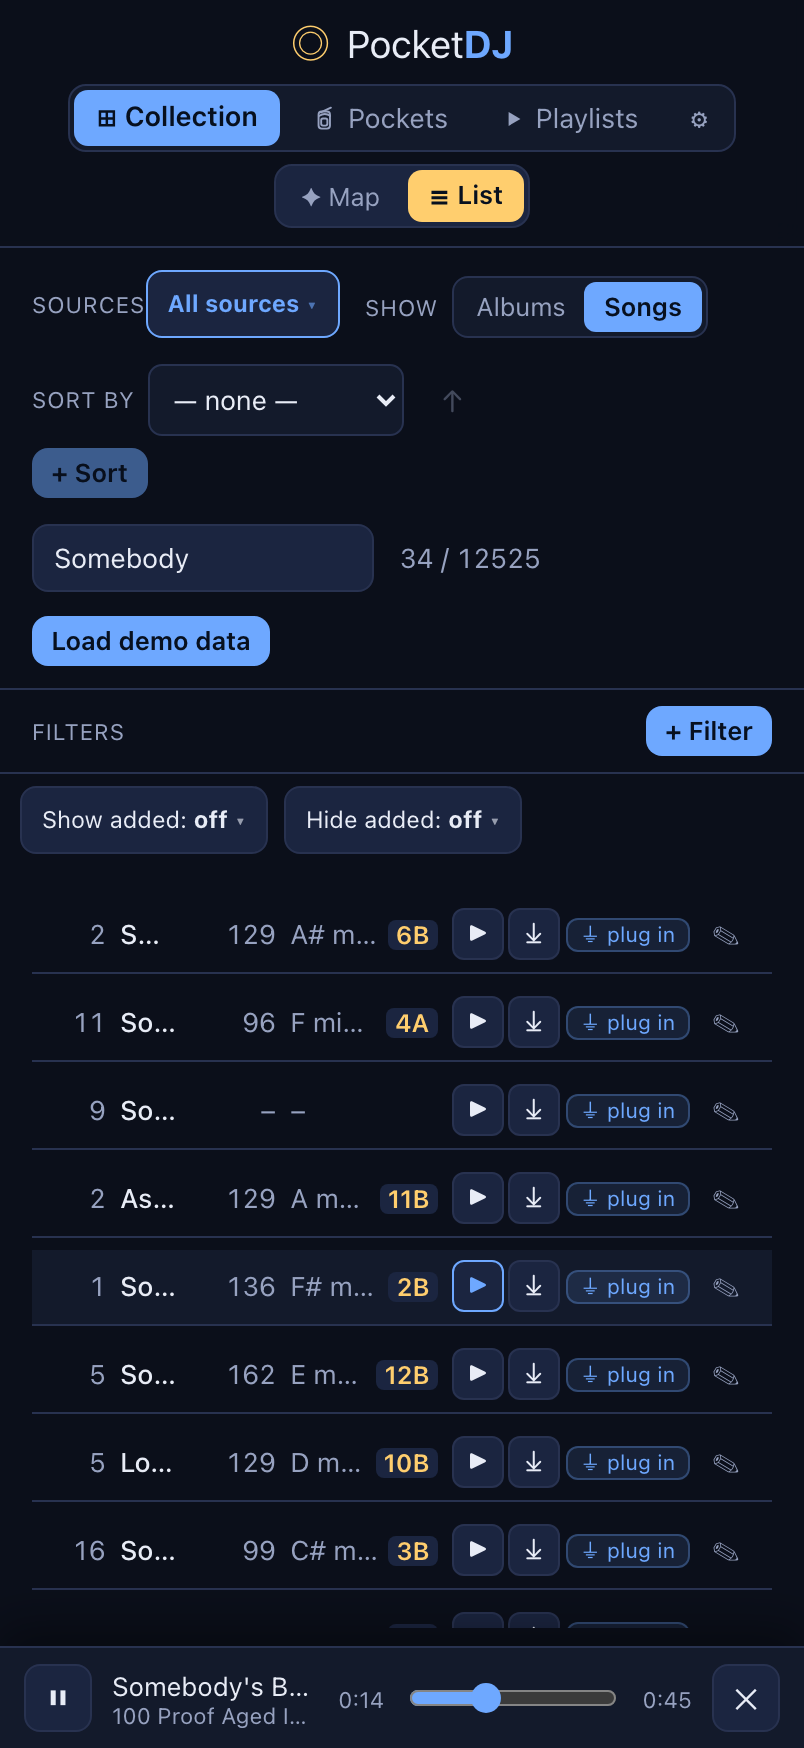
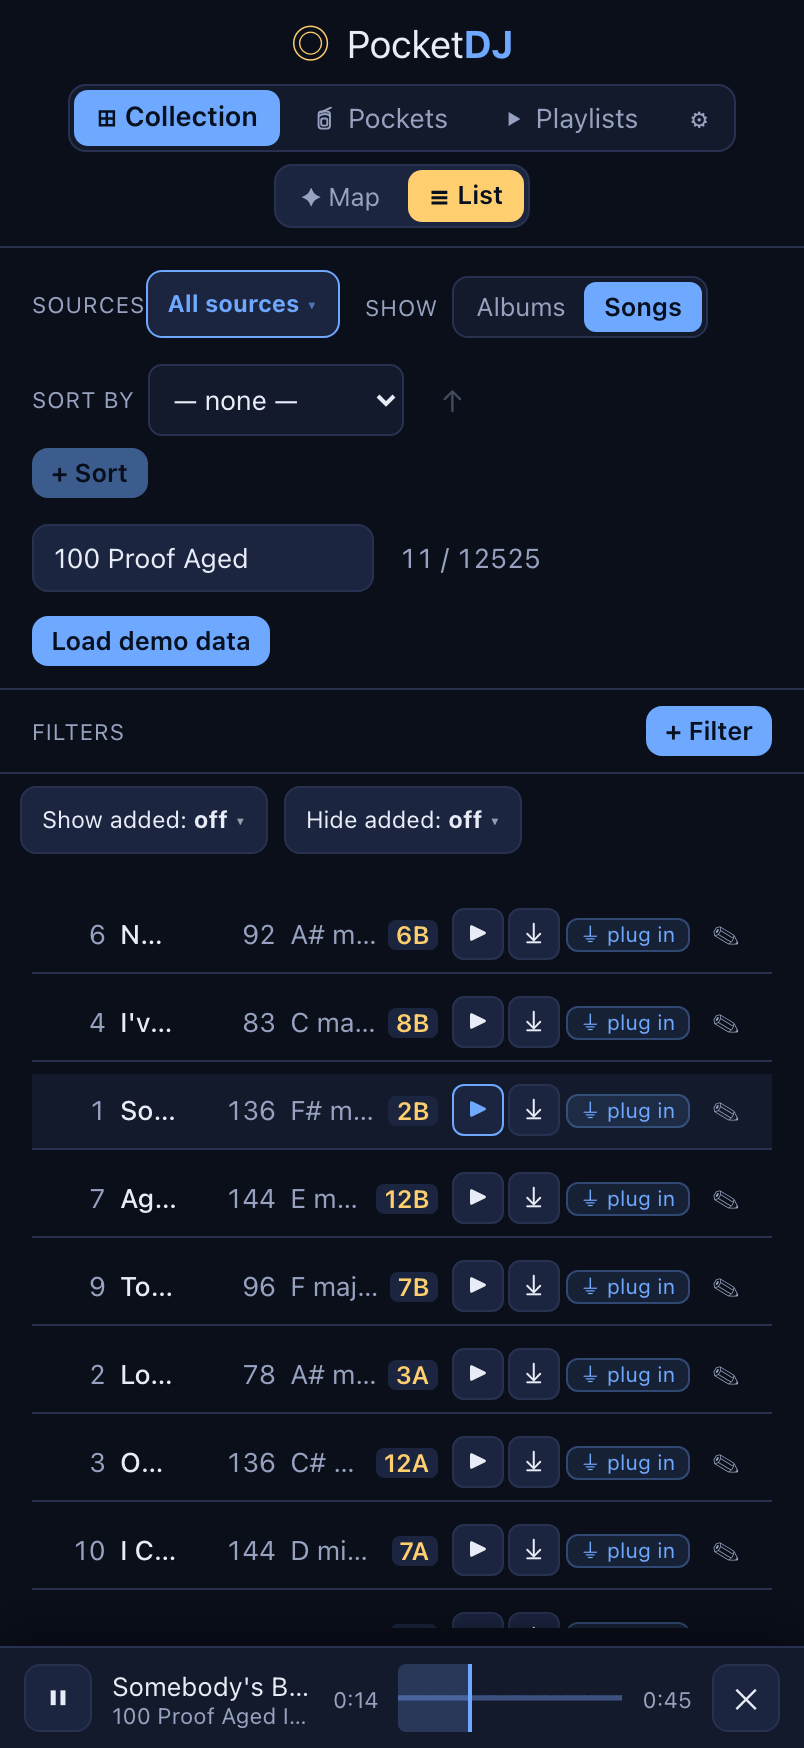
Audio analysis: background BPM/key/waveform for every rip
Generate per-song audio metadata for both API rips and rip-skill output:
- analyze-one.py: single-file BPM/key/Camelot via librosa (KS profiles)
- audio-analyze.mjs: shared analyzer (Docker librosa + ffmpeg waveform PNG)
- analyze-rip.mjs: batch bridge for rip-skill _ripped folders
- rip-server: background analysis queue + POST /analysis, resume on restart
- useRipsStore: fill-gaps catalog merge (bpm/key/camelot) + waveform on play
- MiniPlayer: visual waveform scrub when a waveform is available

BPM/key/Camelot fold into the default index; the waveform PNG is uploaded
to S3 (rips/waveforms/<songId>.png) and fetched only on interaction.

diff --git a/src/store/useRipsStore.ts b/src/store/useRipsStore.ts
@@ -6,6 +6,9 @@
 // when the rip server is offline — the server is only needed to CREATE a rip.
 import { create } from 'zustand';
 import { zip } from 'fflate';
+import { getItem, putItem } from '../storage/repo';
+import { useDataStore } from './useDataStore';
+import { isSong } from '../types/model';
 
 const PUBLIC_BASE = 'https://pocketdj-rips-011183829623.s3.us-west-2.amazonaws.com';
 const MANIFEST_URL = `${PUBLIC_BASE}/rips/manifest.json`;
@@ -15,6 +18,9 @@ export interface ManifestEntry {
   key: string; ext: string; bytes: number;
   source: 'analog' | 'digital'; albumId?: string;
   startMs?: number | null; durationMs?: number | null; rippedAt: number;
+  // background audio analysis (filled after the rip):
+  bpm?: number | null; musicalKey?: string | null; camelot?: string | null;
+  waveform?: string | null; analyzed?: boolean;
 }
 export type RipPhase = 'queued' | 'searching' | 'ripping' | 'uploading' | 'ready' | 'error';
 export interface JobView {
@@ -22,7 +28,7 @@ export interface JobView {
   message?: string | null; url?: string | null; error?: string | null;
   progress?: { elapsedMs?: number; totalMs?: number; pct?: number; indeterminate?: boolean };
 }
-export interface NowPlaying { songId: string; title: string; artist: string; url: string; startMs?: number | null; }
+export interface NowPlaying { songId: string; title: string; artist: string; url: string; startMs?: number | null; waveform?: string | null; }
 export interface QueueItem { id: string; title: string; artist: string; }
 export interface BulkProgress { done: number; total: number; label: string; }
 
@@ -107,7 +113,11 @@ export const useRipsStore = create<RipState>((set, get) => {
     refreshManifest: async () => {
       try {
         const r = await fetch(`${MANIFEST_URL}?t=${Date.now()}`, { cache: 'no-store' });
-        if (r.ok) set({ manifest: await r.json() });
+        if (r.ok) {
+          const manifest = await r.json();
+          set({ manifest });
+          void applyAnalysisToCatalog(manifest); // roll bpm/key/camelot into the catalog
+        }
       } catch { /* offline — keep whatever we have */ }
     },
     urlFor: (songId) => {
@@ -148,7 +158,7 @@ export const useRipsStore = create<RipState>((set, get) => {
       const e = get().manifest[song.id];
       const startMs = opts && 'startMs' in opts ? opts.startMs ?? null : e?.startMs ?? null;
       // single play clears any setlist queue (no next/prev)
-      set({ queue: null, queueIndex: -1, nowPlaying: { songId: song.id, title: song.title, artist: song.artist, url, startMs } });
+      set({ queue: null, queueIndex: -1, nowPlaying: { songId: song.id, title: song.title, artist: song.artist, url, startMs, waveform: e?.waveform ? `${PUBLIC_BASE}/${e.waveform}` : null } });
     },
     download: async (song) => {
       const url = await get().ensureUrl(song.id);
@@ -173,7 +183,7 @@ export const useRipsStore = create<RipState>((set, get) => {
       set({ queueIndex: i });
       const url = await get().ensureUrl(t.id);
       const e = get().manifest[t.id];
-      set({ nowPlaying: { songId: t.id, title: t.title, artist: t.artist, url, startMs: e?.startMs ?? null } });
+      set({ nowPlaying: { songId: t.id, title: t.title, artist: t.artist, url, startMs: e?.startMs ?? null, waveform: e?.waveform ? `${PUBLIC_BASE}/${e.waveform}` : null } });
     },
     next: () => { const { queue, queueIndex } = get(); if (queue && queueIndex + 1 < queue.length) void get().playAt(queueIndex + 1); },
     prev: () => { const { queue, queueIndex } = get(); if (queue && queueIndex > 0) void get().playAt(queueIndex - 1); },
@@ -217,4 +227,32 @@ export const useRipsStore = create<RipState>((set, get) => {
 function dedupe(tracks: QueueItem[]): QueueItem[] {
   const seen = new Set<string>();
   return tracks.filter((t) => t.id && !seen.has(t.id) && seen.add(t.id));
+}
+
+/**
+ * Roll the rip analysis (bpm/key/camelot) into the catalog: patch IndexedDB song
+ * items so the data shows up in the default index — filterable, sortable, on the
+ * star map, in song detail. Only fills from entries that carry analysis; never
+ * overwrites an existing value with null. Reloads the browser once if anything
+ * changed. Runs in the background after the manifest loads.
+ */
+async function applyAnalysisToCatalog(manifest: Record<string, ManifestEntry>): Promise<void> {
+  let patched = 0;
+  for (const [songId, e] of Object.entries(manifest)) {
+    if (e.bpm == null && !e.musicalKey && !e.camelot) continue;
+    try {
+      const it = await getItem(songId);
+      if (!it || !isSong(it)) continue;
+      // FILL gaps only — never clobber existing catalog values (analog songs already
+      // carry accurate audio-stage bpm/key; digital songs are null and get filled).
+      const bpm = it.bpm ?? e.bpm ?? null;
+      const key = it.key ?? e.musicalKey ?? null;
+      const camelot = it.camelot ?? e.camelot ?? null;
+      if (it.bpm !== bpm || it.key !== key || it.camelot !== camelot) {
+        await putItem({ ...it, bpm, key, camelot });
+        patched++;
+      }
+    } catch { /* ignore one bad item */ }
+  }
+  if (patched) void useDataStore.getState().reload();
 }

diff --git a/src/components/player/MiniPlayer.tsx b/src/components/player/MiniPlayer.tsx
@@ -2,6 +2,7 @@
 // tracks it auto-seeks to the track's startMs within the whole-album file (the user
 // can still scrub freely). Mounted once in AppShell.
 import { useEffect, useRef, useState } from 'react';
+import type { MouseEvent } from 'react';
 import { useRipsStore } from '../../store/useRipsStore';
 
 const clock = (s: number) => (isFinite(s) ? `${Math.floor(s / 60)}:${String(Math.floor(s % 60)).padStart(2, '0')}` : '0:00');
@@ -38,6 +39,11 @@ export function MiniPlayer() {
   const a = audioRef.current;
   const toggle = () => { if (!a) return; if (a.paused) void a.play(); else a.pause(); };
   const seek = (v: number) => { if (a) a.currentTime = v; };
+  const pct = dur ? Math.min(100, (t / dur) * 100) : 0;
+  const seekFromClick = (e: MouseEvent<HTMLDivElement>) => {
+    const r = e.currentTarget.getBoundingClientRect();
+    seek(((e.clientX - r.left) / r.width) * (dur || 0));
+  };
 
   return (
     <div className="pdj-player" data-testid="mini-player">
@@ -63,12 +69,20 @@ export function MiniPlayer() {
         <div className="pdj-player__artist">{now.artist}</div>
       </div>
       <span className="pdj-player__time">{clock(t)}</span>
-      <input
-        className="pdj-player__seek"
-        type="range" min={0} max={dur || 0} step={0.5} value={t}
-        data-testid="player-seek"
-        onChange={(e) => seek(Number(e.target.value))}
-      />
+      {now.waveform ? (
+        <div className="pdj-player__wave" data-testid="player-wave" onClick={seekFromClick} title="Scrub">
+          <img className="pdj-player__wave-img" src={now.waveform} alt="waveform" loading="lazy" />
+          <div className="pdj-player__wave-played" style={{ width: `${pct}%` }} />
+          <div className="pdj-player__wave-head" style={{ left: `${pct}%` }} />
+        </div>
+      ) : (
+        <input
+          className="pdj-player__seek"
+          type="range" min={0} max={dur || 0} step={0.5} value={t}
+          data-testid="player-seek"
+          onChange={(e) => seek(Number(e.target.value))}
+        />
+      )}
       <span className="pdj-player__time">{clock(dur)}</span>
       <button type="button" className="pdj-player__btn" data-testid="player-close" onClick={() => { a?.pause(); setNow(null); }} aria-label="Close">✕</button>
     </div>

diff --git a/src/styles/index.css b/src/styles/index.css
@@ -339,6 +339,11 @@ input:focus, select:focus, textarea:focus { outline: 2px solid var(--pdj-accent)
 .pdj-player__artist { font-size: 0.7rem; color: var(--pdj-fg-dim); white-space: nowrap; overflow: hidden; text-overflow: ellipsis; max-width: 38vw; }
 .pdj-player__time { font-size: 0.7rem; color: var(--pdj-fg-dim); flex: 0 0 auto; }
 .pdj-player__seek { flex: 1 1 auto; min-width: 60px; accent-color: var(--pdj-accent); }
+/* Waveform scrub bar (lazy-loaded PNG) — click anywhere to seek. */
+.pdj-player__wave { position: relative; flex: 1 1 auto; min-width: 80px; height: 34px; cursor: pointer; overflow: hidden; border-radius: 4px; }
+.pdj-player__wave-img { width: 100%; height: 100%; object-fit: fill; display: block; opacity: 0.4; }
+.pdj-player__wave-played { position: absolute; top: 0; left: 0; height: 100%; background: rgba(122, 162, 255, 0.22); pointer-events: none; }
+.pdj-player__wave-head { position: absolute; top: 0; width: 2px; height: 100%; background: var(--pdj-accent); pointer-events: none; }
 .pdj-settings__rip { display: flex; flex-direction: column; gap: 4px; }
 
 /* Sources panel: which data sources the app shows (multi-select) + load/remove. */

diff --git a/.claude/skills/analog-indexer/audio/analyze-one.py b/.claude/skills/analog-indexer/audio/analyze-one.py
@@ -1,0 +1,63 @@
+#!/usr/bin/env python3
+# Single-file BPM + musical-key (+ Camelot) detection for ONE audio file. Reuses the
+# catalog's algorithm (Krumhansl-Schmuckler key profiles + librosa beat-track), bounded
+# to a representative window so it's fast per song. Runs inside the pocketdj-audio image:
+#   docker run --rm --entrypoint python -v <dir>:/work pocketdj-audio:latest \
+#     /work/analyze-one.py /work/song.mp3
+# Prints one JSON line: {"bpm":.., "key":.., "camelot":.., "keyStrength":.., "durationSec":.., "ok":true}
+import sys, json
+
+KS_MAJOR = [6.35, 2.23, 3.48, 2.33, 4.38, 4.09, 2.52, 5.19, 2.39, 3.66, 2.29, 2.88]
+KS_MINOR = [6.33, 2.68, 3.52, 5.38, 2.60, 3.53, 2.54, 4.75, 3.98, 2.69, 3.34, 3.17]
+PITCHES = ["C", "C#", "D", "D#", "E", "F", "F#", "G", "G#", "A", "A#", "B"]
+CAMELOT = {
+    "C major": "8B", "G major": "9B", "D major": "10B", "A major": "11B", "E major": "12B",
+    "B major": "1B", "F# major": "2B", "C# major": "3B", "G# major": "4B", "D# major": "5B",
+    "A# major": "6B", "F major": "7B",
+    "A minor": "8A", "E minor": "9A", "B minor": "10A", "F# minor": "11A", "C# minor": "12A",
+    "G# minor": "1A", "D# minor": "2A", "A# minor": "3A", "F minor": "4A", "C minor": "5A",
+    "G minor": "6A", "D minor": "7A",
+}
+
+
+def detect_key(chroma_mean):
+    import numpy as np
+    maj_p = np.array(KS_MAJOR) - np.mean(KS_MAJOR)
+    min_p = np.array(KS_MINOR) - np.mean(KS_MINOR)
+    best = (-2.0, "C", "major")
+    cm = chroma_mean - chroma_mean.mean()
+    for i in range(12):
+        maj = np.corrcoef(cm, np.roll(maj_p, i))[0, 1]
+        if maj > best[0]:
+            best = (maj, PITCHES[i], "major")
+        mino = np.corrcoef(cm, np.roll(min_p, i))[0, 1]
+        if mino > best[0]:
+            best = (mino, PITCHES[i], "minor")
+    strength, tonic, mode = best
+    name = f"{tonic} {mode}"
+    return name, CAMELOT.get(name, ""), round(float(strength), 3)
+
+
+def main():
+    path = sys.argv[1]
+    try:
+        import librosa, numpy as np
+        y, sr = librosa.load(path, sr=22050, mono=True)
+        n = len(y)
+        # representative window: skip the first ~5% (intro), cap at 90s — BPM/key are
+        # stable within a song, so this bounds CPU without hurting accuracy.
+        off = min(int(n * 0.05), 5 * sr)
+        win = 90 * sr
+        aw = y[off:off + win] if n > off else y
+        tempo = librosa.beat.beat_track(y=aw, sr=sr)[0]
+        bpm = round(float(np.atleast_1d(tempo)[0]), 1)
+        chroma = librosa.feature.chroma_cqt(y=aw, sr=sr).mean(axis=1)
+        key_name, camelot, strength = detect_key(chroma)
+        print(json.dumps({"bpm": bpm, "key": key_name, "camelot": camelot,
+                          "keyStrength": strength, "durationSec": round(n / sr, 1), "ok": True}))
+    except Exception as exc:
+        print(json.dumps({"ok": False, "error": str(exc)}))
+        sys.exit(1)
+
+
+main()

diff --git a/docs/STORYBOOK.md b/docs/STORYBOOK.md
@@ -675,8 +675,17 @@ back. Rip once → instant forever (and playable anywhere, since the cache is ju
 Each song row and album card gets **▶ Play** and **⤓ Download**. Tap ▶ and — if it
 isn't already ripped — the button shows the live phase **Searching… → Ripping mm:ss →
 Uploading…** (polled from the rip server), then a **mini player** docks at the bottom
-with scrub, **⏮/⏭**, and **auto-seek** to the track inside a whole-album rip.
-Already-ripped songs play instantly.
+with **⏮/⏭** and **auto-seek** to the track inside a whole-album rip. Already-ripped
+songs play instantly.
+
+**Audio analysis + waveform scrub.** Every ripped song is analyzed in the background:
+**BPM, musical key & Camelot** are computed (librosa) and **rolled into the default
+index** — so they're filterable, sortable, on the star map, and in song detail, just
+like the rest of the catalog (existing audio-stage values are kept; only gaps are
+filled). A **waveform** image is generated (ffmpeg) and uploaded alongside the rip;
+the player lazy-loads it (like cover art / lyrics) and renders it as a **clickable
+scrub bar** — click anywhere on the waveform to seek. The same analysis runs on songs
+ripped via the **`rip` skill** (a setlist's `_ripped/` folder) through the batch tool.
 
 ### Settings ▸ Rip server
 

diff --git a/docs/design/streaming-rips.md b/docs/design/streaming-rips.md
@@ -31,6 +31,14 @@ real‑time) + setlist Rip‑all/Play‑all/Burn + a durable filesystem queue. S
 - App: `useRipsStore` (manifest, config, per‑song job polling, play‑through queue,
   rip‑all, burn), `RipButtons`, `MiniPlayer`, Settings ▸ Rip server, and the
   set list **Rip all / Play all / Burn**.
+- **Background audio analysis** (`scripts/lib/audio-analyze.mjs`): after each rip,
+  BPM + key + Camelot (Docker `pocketdj-audio`/librosa) + a **waveform PNG**
+  (ffmpeg) → uploaded to `rips/waveforms/<id>.png`. BPM/key/Camelot are written into
+  the manifest and **rolled into the catalog** client‑side (fill‑gaps only). The
+  waveform is **lazy‑loaded** and rendered as a clickable **scrub bar** in the player.
+  Runs for both API‑ and skill‑ripped songs (`scripts/analyze-rip.mjs --dir
+  <_ripped>` bridges the skill's setlist output → upload + analyze + `POST /analysis`).
+  Durable: un‑analyzed manifest entries are re‑queued on server restart.
 - Verified end‑to‑end on a real device: an Apple Music track ripped → uploaded →
   streamed; analog fast path; durable‑queue resume.
 
